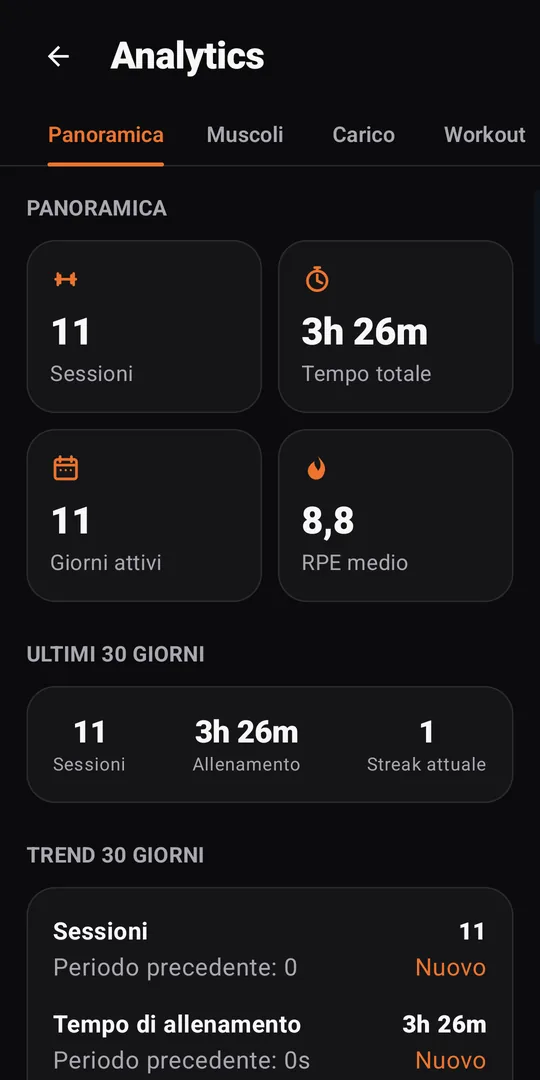
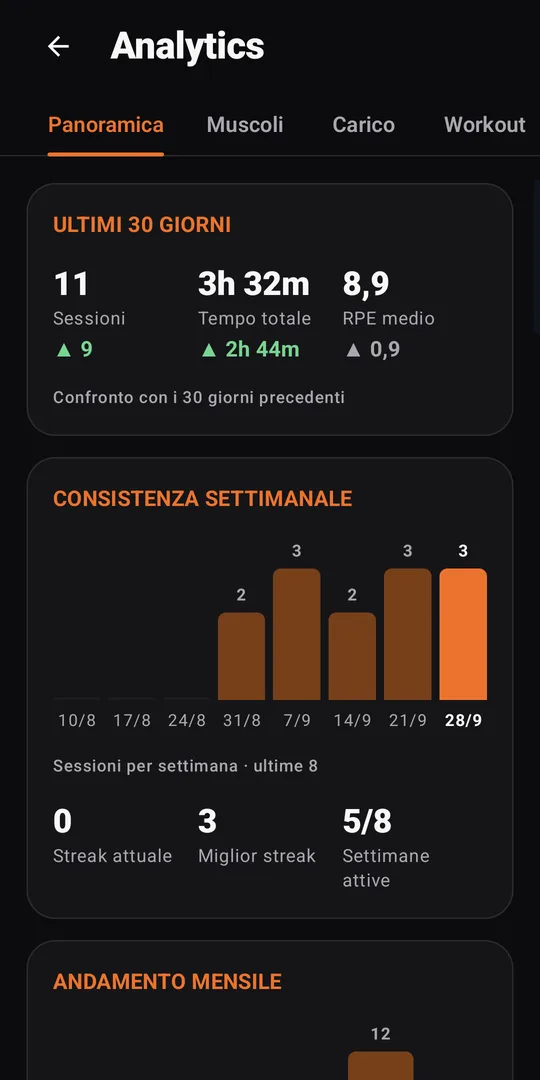
Guida: Analytics, Iron Coach e Personal record della 10.1.9
Nuovi screenshot (Panoramica, Carico e intensità, Record, Coach Analisi) e
testi IT/EN/ES aggiornati; spiegato quando conta un Personal record.

Claude-Session: https://claude.ai/code/session_01VDeuuTKHYtsNergkQuVn2e

diff --git a/guida/index.html b/guida/index.html
@@ -473,10 +473,10 @@ const SECTIONS = [
       en: 'Your numbers over time: frequency, volume, muscles trained, records, cardio and estimated growth.',
       es: 'Tus números en el tiempo: frecuencia, volumen, músculos trabajados, récords, cardio y crecimiento estimado.'
     },
-    shots: [['analytics', { it: 'Analytics', en: 'Analytics', es: 'Analytics' }], ['analytics-muscles', { it: 'Gruppi muscolari', en: 'Muscle groups', es: 'Grupos musculares' }], ['progress', { it: 'Progress Intelligence', en: 'Progress Intelligence', es: 'Progress Intelligence' }]],
+    shots: [['analytics', { it: 'Panoramica', en: 'Overview', es: 'Resumen' }], ['analytics-load', { it: 'Carico e intensità', en: 'Load and intensity', es: 'Carga e intensidad' }], ['analytics-records', { it: 'Record', en: 'Records', es: 'Récords' }], ['analytics-muscles', { it: 'Gruppi muscolari', en: 'Muscle groups', es: 'Grupos musculares' }], ['progress', { it: 'Progress Intelligence', en: 'Progress Intelligence', es: 'Progress Intelligence' }]],
     items: [
       { t: { it: 'Analytics', en: 'Analytics', es: 'Analytics' },
-        d: { it: 'Schede Panoramica, Muscoli, Carico, Workout e Record: streak, durata media, RPE medio, mese più attivo, gruppi muscolari trascurati, tempo nelle zone cardio.', en: 'Overview, Muscles, Load, Workouts and Records tabs: streaks, average duration, average RPE, busiest month, neglected muscle groups, time in heart-rate zones.', es: 'Pestañas Resumen, Músculos, Carga, Workouts y Récords: rachas, duración media, RPE medio, mes más activo, grupos musculares olvidados, tiempo en zonas cardiacas.' } },
+        d: { it: 'Cinque schede, tutto visibile senza aprire nulla. <b>Panoramica</b>: gli ultimi 30 giorni con la variazione rispetto ai 30 precedenti, le sessioni per settimana e per mese, streak e totali. <b>Muscoli</b>: gruppi allenati e trascurati. <b>Carico</b>: carico settimanale (minuti × RPE), <b>Intensità</b> con la scala RPE spiegata sulle tue sessioni, cardio e tempo nelle zone, fascia oraria e durata preferite. <b>Workout</b>: i formati con durata e RPE medi, RX e Scaled. <b>Record</b>: i tuoi primati (sessione più lunga, più ripetizioni, settimana più carica, miglior streak), il miglior risultato per ogni benchmark e il collegamento ai Massimali.', en: 'Five tabs, everything visible without opening anything. <b>Overview</b>: the last 30 days with the change from the 30 before, sessions per week and per month, streaks and totals. <b>Muscles</b>: muscle groups trained and neglected. <b>Load</b>: weekly load (minutes × RPE), <b>Intensity</b> with the RPE scale explained on your own sessions, cardio and time in zones, preferred time of day and length. <b>Workouts</b>: formats with average length and RPE, RX and Scaled. <b>Records</b>: your personal bests (longest session, most reps, biggest week, best streak), the best result for each benchmark and the link to Max Lifts.', es: 'Cinco pestañas, todo visible sin abrir nada. <b>Resumen</b>: los últimos 30 días con la variación respecto a los 30 anteriores, sesiones por semana y por mes, rachas y totales. <b>Músculos</b>: grupos trabajados y olvidados. <b>Carga</b>: carga semanal (minutos × RPE), <b>Intensidad</b> con la escala RPE explicada sobre tus sesiones, cardio y tiempo en zonas, franja horaria y duración preferidas. <b>Workouts</b>: los formatos con duración y RPE medios, RX y Scaled. <b>Récords</b>: tus mejores marcas (sesión más larga, más repeticiones, semana más cargada, mejor racha), el mejor resultado de cada benchmark y el enlace a Máximos.' } },
       { t: { it: 'Progress Intelligence', en: 'Progress Intelligence', es: 'Progress Intelligence' },
         d: { it: 'Esercizi, benchmark e massimali a confronto: frequenza settimanale, PR recenti, 1RM ed e1RM. Le variazioni percentuali compaiono solo quando c\'è davvero qualcosa da confrontare: almeno 3 sessioni nei 30 giorni precedenti e, per un esercizio, almeno 2 sessioni in entrambi i periodi. Un massimale è <b>in crescita</b> solo quando l\'ultimo record supera il migliore precedente; un set più leggero non conta come calo. Distanze e carichi seguono il sistema di unità scelto.', en: 'Exercises, benchmarks and max lifts compared: weekly frequency, recent PRs, 1RM and e1RM. Percentage changes only show when there is something real to compare: at least 3 sessions in the previous 30 days and, for an exercise, at least 2 sessions in both periods. A max lift is <b>improving</b> only when the latest record beats the previous best; a lighter set doesn\'t count as a drop. Distances and loads follow your unit system.', es: 'Ejercicios, benchmarks y máximos comparados: frecuencia semanal, PR recientes, 1RM y e1RM. Las variaciones porcentuales solo aparecen cuando hay algo real que comparar: al menos 3 sesiones en los 30 días anteriores y, para un ejercicio, al menos 2 sesiones en ambos periodos. Un máximo está <b>mejorando</b> solo cuando el último registro supera el mejor anterior; una serie más ligera no cuenta como bajada. Distancias y cargas siguen tu sistema de unidades.' } },
       { t: { it: 'Nuova FC massima', en: 'New max heart rate', es: 'Nueva FC máxima' },
@@ -495,6 +495,8 @@ const SECTIONS = [
     items: [
       { t: { it: 'Iron Score', en: 'Iron Score', es: 'Iron Score' },
         d: { it: 'Indice 0-100 basato su costanza, equilibrio allenante, forza e progressi, motore e cardio, capacità di lavoro. Sale di rank man mano che ti alleni.', en: 'A 0-100 index based on consistency, training balance, strength and progress, engine and cardio, work capacity. Your rank goes up as you train.', es: 'Índice 0-100 basado en constancia, equilibrio del entrenamiento, fuerza y progreso, motor y cardio, capacidad de trabajo. Subes de rango a medida que entrenas.' } },
+      { t: { it: 'Personal record', en: 'Personal records', es: 'Récords personales' },
+        d: { it: 'Un PR conta solo quando migliori davvero: un benchmark rifatto più veloce (o con più ripetizioni negli AMRAP) oppure una singola più pesante nei Massimali. La prima volta che fai un benchmark è il riferimento da battere, non un record. Lo stesso conteggio vale in Iron Profile, nel tuo anno, negli achievement e in Analytics.', en: 'A PR only counts when you actually improve: a benchmark redone faster (or with more reps on an AMRAP) or a heavier single in Max Lifts. The first time you do a benchmark is the reference to beat, not a record. The same count is used in Iron Profile, your year, achievements and Analytics.', es: 'Un PR solo cuenta cuando mejoras de verdad: un benchmark repetido más rápido (o con más repeticiones en un AMRAP) o una serie única más pesada en Máximos. La primera vez que haces un benchmark es la referencia a superar, no un récord. El mismo recuento vale en Iron Profile, tu año, los logros y Analytics.' } },
       { t: { it: 'DNA e highlights', en: 'DNA and highlights', es: 'ADN y highlights' },
         d: { it: 'Identità di allenamento, profilo di forza, momentum degli ultimi 30 giorni, la tua settimana e il tuo anno.', en: 'Training identity, strength profile, last-30-days momentum, your week and your year.', es: 'Identidad de entrenamiento, perfil de fuerza, momentum de los últimos 30 días, tu semana y tu año.' } }
     ]
@@ -507,12 +509,12 @@ const SECTIONS = [
       en: 'A coach that reads your real data without making anything up: frequency, load, recovery and benchmarks.',
       es: 'Un coach que lee tus datos reales, sin inventarlos: frecuencia, carga, recuperación y benchmarks.'
     },
-    shots: [['coach', { it: 'Iron Coach', en: 'Iron Coach', es: 'Iron Coach' }]],
+    shots: [['coach', { it: 'Oggi', en: 'Today', es: 'Hoy' }], ['coach-analysis', { it: 'Analisi', en: 'Analysis', es: 'Análisis' }]],
     items: [
       { t: { it: 'Check-in del giorno', en: 'Daily check-in', es: 'Check-in del día' },
         d: { it: 'Dieci secondi: <b>sonno</b> ed <b>energia</b> su cinque livelli, <b>dolori</b> (nessuno, leggeri, forti) con la zona (gambe, schiena, spalle e braccia, core) e la <b>voglia di spingere</b>. Ogni risposta cambia una parte diversa del WOD di oggi: sonno ed energia l\'intensità (RPE), l\'energia la durata, i dolori tolgono gli esercizi sulla zona indicata e, se forti, i carichi pesanti, la voglia sceglie il formato (EMOM controllato, AMRAP o For Time). Sotto le domande, <b>Il tuo WOD di oggi</b> ti dà una frase del coach adatta a come stai; <b>Genera il WOD</b> chiede dove ti alleni e quanto tempo hai, come Inizia in home. <b>Fatto</b>, <b>Modifica</b> e <b>Azzera</b> sono subito sotto le domande; il check-in vale per la giornata.', en: 'Ten seconds: <b>sleep</b> and <b>energy</b> on five levels, <b>soreness</b> (none, light, strong) with where (legs, back, shoulders and arms, core) and your <b>drive to push</b>. Each answer changes a different part of today\'s WOD: sleep and energy the intensity (RPE), energy the length, soreness leaves out exercises for that area and, when strong, heavy loads, drive picks the format (controlled EMOM, AMRAP or For Time). Below the questions, <b>Your WOD today</b> gives you a coach line that fits how you feel; <b>Generate the WOD</b> asks where you train and how long you have, like Start on Home. <b>Done</b>, <b>Edit</b> and <b>Reset</b> sit right under the questions; the check-in lasts for the day.', es: 'Diez segundos: <b>sueño</b> y <b>energía</b> en cinco niveles, <b>dolores</b> (ninguno, leves, fuertes) con la zona (piernas, espalda, hombros y brazos, core) y las <b>ganas de apretar</b>. Cada respuesta cambia una parte distinta del WOD de hoy: sueño y energía la intensidad (RPE), la energía la duración, los dolores quitan los ejercicios de esa zona y, si son fuertes, las cargas pesadas, las ganas eligen el formato (EMOM controlado, AMRAP o For Time). Debajo de las preguntas, <b>Tu WOD de hoy</b> te da una frase del coach según cómo estás; <b>Generar el WOD</b> pregunta dónde entrenas y cuánto tiempo tienes, como Empezar en la Home. <b>Hecho</b>, <b>Editar</b> y <b>Borrar</b> están justo debajo de las preguntas; el check-in vale para todo el día.' } },
       { t: { it: 'Oggi, Settimana, Analisi', en: 'Today, Week, Analysis', es: 'Hoy, Semana, Análisis' },
-        d: { it: 'La sessione consigliata, il piano della settimana, i trend e i punteggi con l\'affidabilità dei dati su cui si basano.', en: 'The suggested session, the weekly plan, trends and scores with how reliable the underlying data is.', es: 'La sesión recomendada, el plan de la semana, las tendencias y las puntuaciones con la fiabilidad de los datos en que se basan.' } }
+        d: { it: '<b>Oggi</b>: check-in, recupero e i punteggi (Iron Score, ultima sessione, media degli ultimi 30 giorni). <b>Settimana</b>: avanzamento, piano dei prossimi giorni e il benchmark da riprovare. <b>Analisi</b>: in cima il <b>focus consigliato</b>, l\'area che hai allenato meno negli ultimi 30 giorni, con <b>Genera SmartWOD mirato</b> che crea un WOD proprio su quell\'area (Core, Ginnastica, Forza…); sotto, l\'equilibrio tra le aree con ▲▼ rispetto al mese prima, l\'andamento degli ultimi 14 giorni e i movimenti più usati o assenti da più tempo. In fondo, una riga dice quanto è affidabile l\'analisi.', en: '<b>Today</b>: check-in, recovery and the scores (Iron Score, last session, last-30-days average). <b>Week</b>: progress, the plan for the next days and the benchmark to retest. <b>Analysis</b>: at the top the <b>recommended focus</b>, the area you trained least in the last 30 days, with <b>Generate a targeted SmartWOD</b> building a WOD right on that area (Core, Gymnastics, Strength…); below, the balance between areas with ▲▼ versus the month before, the last 14 days trend and the movements used most or missing longest. At the bottom, one line says how reliable the analysis is.', es: '<b>Hoy</b>: check-in, recuperación y las puntuaciones (Iron Score, última sesión, media de los últimos 30 días). <b>Semana</b>: progreso, plan de los próximos días y el benchmark a repetir. <b>Análisis</b>: arriba el <b>foco recomendado</b>, el área que menos has entrenado en los últimos 30 días, con <b>Generar SmartWOD específico</b> que crea un WOD justo sobre esa área (Core, Gimnasia, Fuerza…); debajo, el equilibrio entre áreas con ▲▼ respecto al mes anterior, la evolución de los últimos 14 días y los movimientos más usados o ausentes desde hace más tiempo. Al final, una línea indica lo fiable que es el análisis.' } }
     ],
     tip: {
       it: 'Le indicazioni di Iron Coach sono informative: non sostituiscono il coach del box né indicazioni mediche.',
